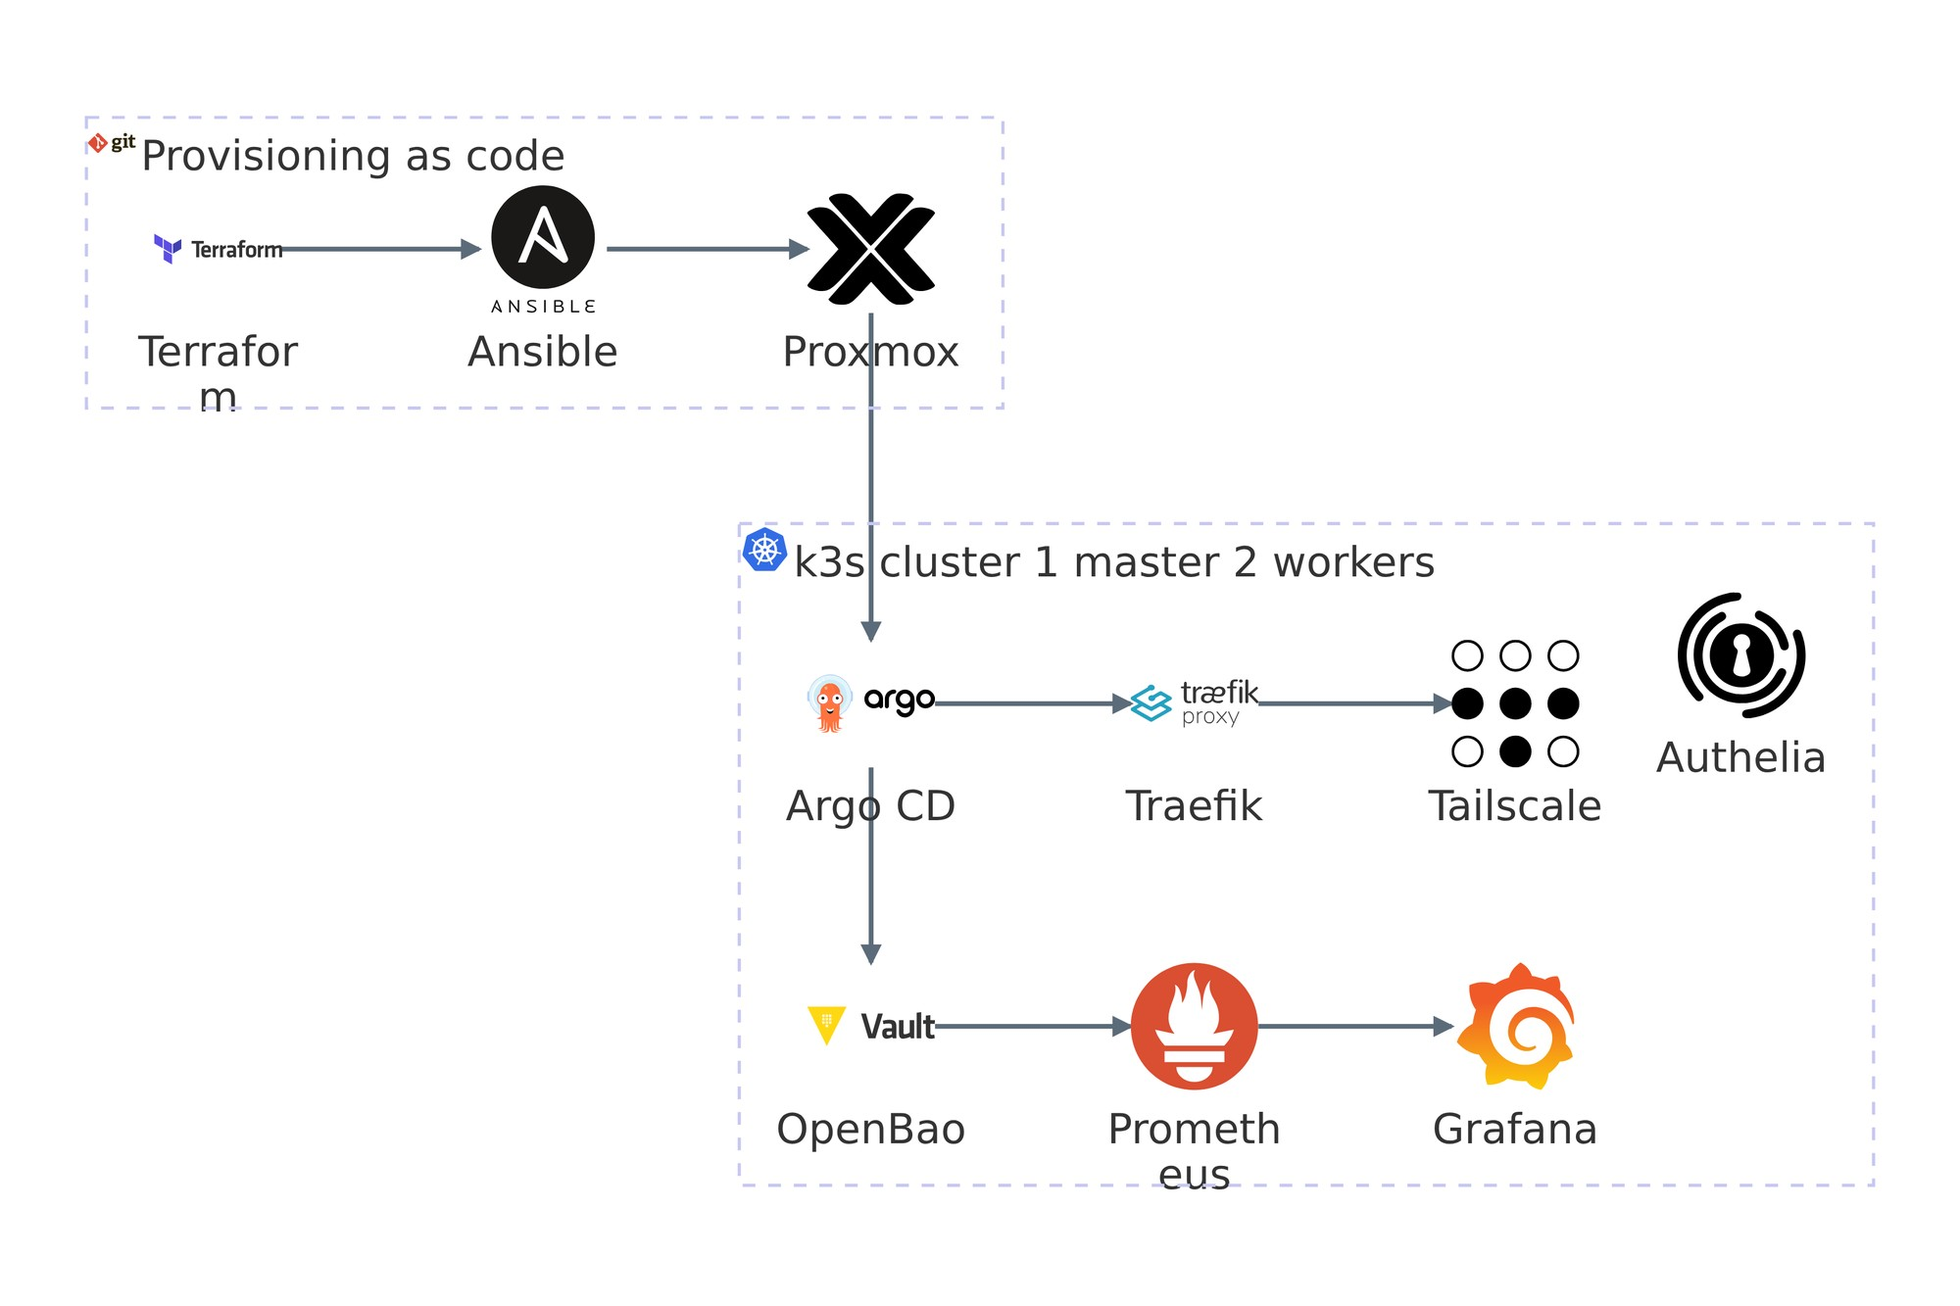
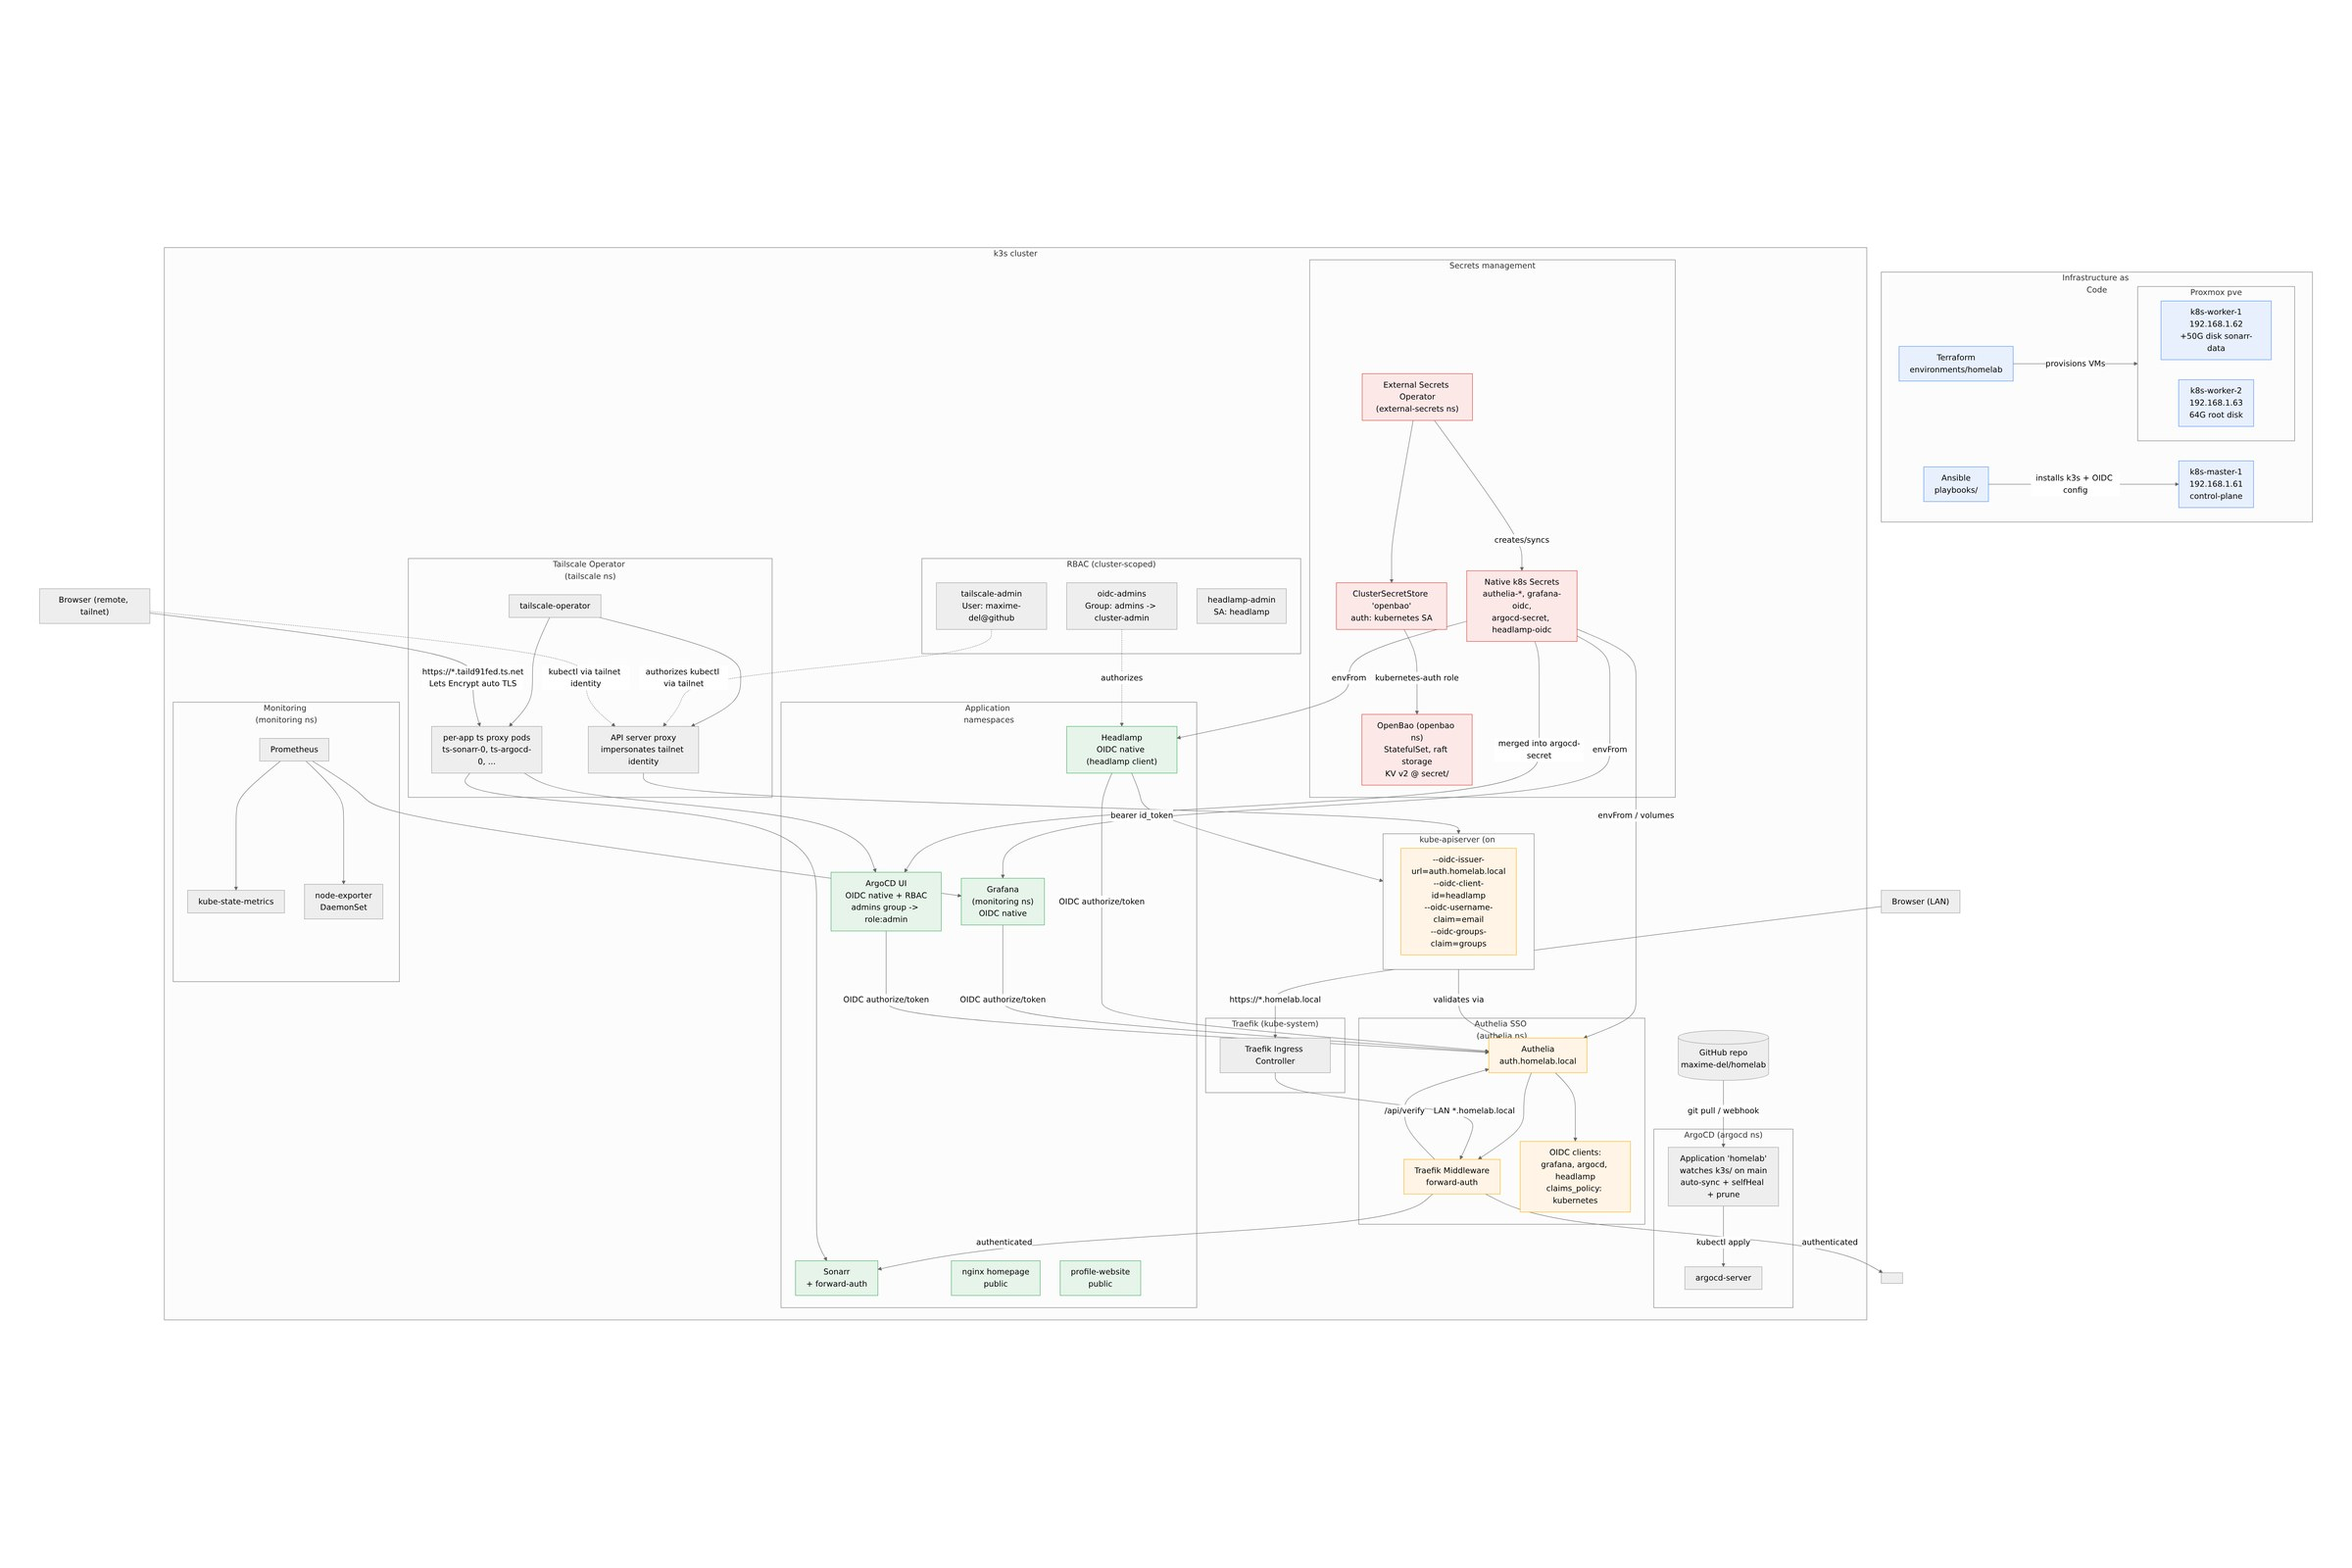
Mermaid architecture for the homelab

diff --git a/images/projects/CREDITS.md b/images/projects/CREDITS.md
@@ -7,7 +7,7 @@ identify the tools used in each project.
 
 | File | Used for | Source | Notes |
 |---|---|---|---|
-| homelab-arch.jpg | Homelab | Architecture diagram built with [Mermaid](https://mermaid.js.org); tool logos from the Iconify `logos` and `simple-icons` sets | Own diagram; logos © their owners |
+| homelab-arch.jpg | Homelab | Architecture diagram authored by me, rendered with [Mermaid](https://mermaid.js.org) | Own work |
 | bloodhound.jpg | Active Directory Pentest | Official [BloodHound Community Edition](https://github.com/SpecterOps/BloodHound) logo on a plain background | Logo © SpecterOps, used nominatively |
 | shell.jpg | 42sh | Terminal mockup, generated for this site | Own work |
 | sudoku.jpg | OCR Sudoku Solver | Sudoku grid, generated for this site (Pillow) | Own work |
